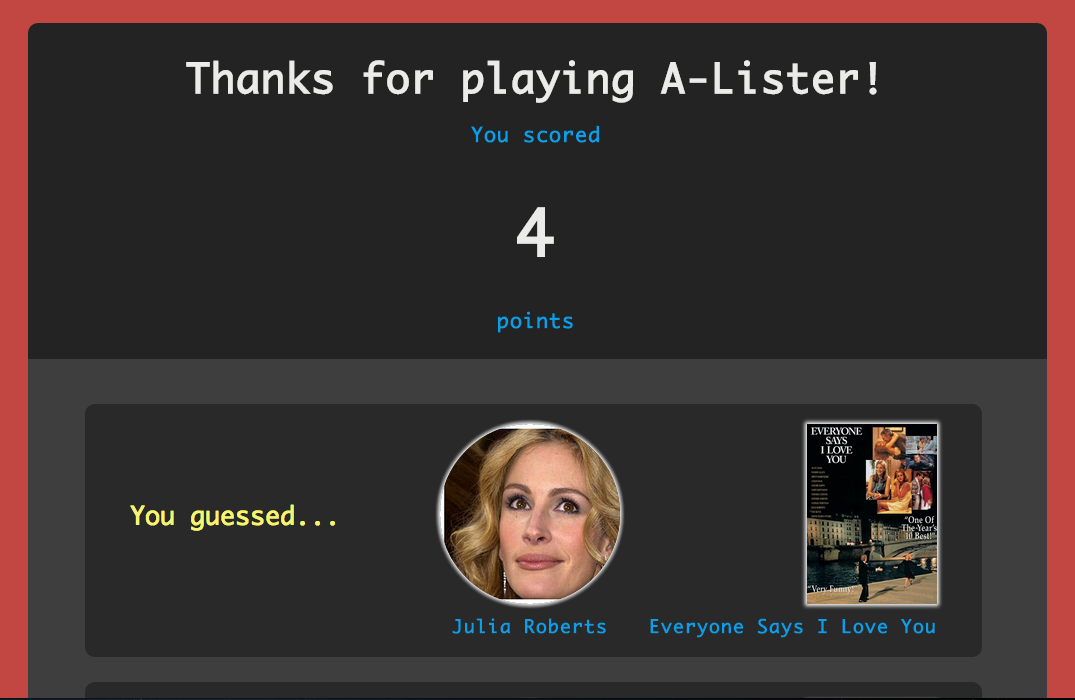
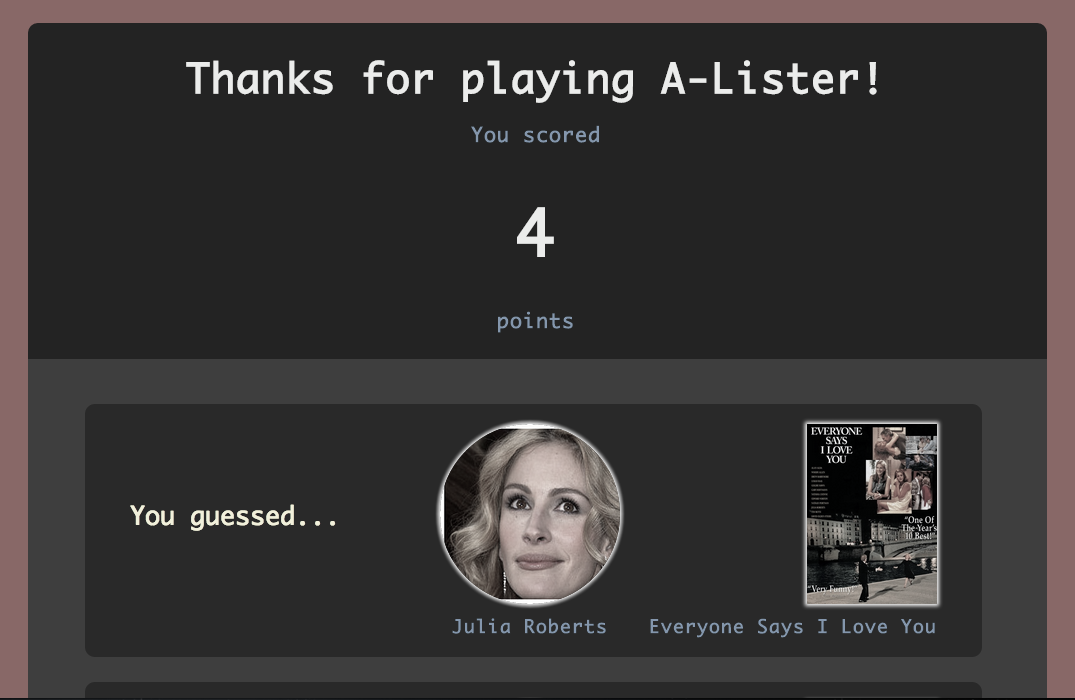
switched up color scheme, more black and pink

diff --git a/index.html b/index.html
@@ -57,22 +57,25 @@
       <div class="built">
         <ul>
           <li>
-            <h3>billboard_chart</h3>
-            <a href="#" data-target="#myToggle" class="hcaption" cap-effect="fade"><img src="images/billboard_chart.png"></a>
+            <a href="http://www.gonoted.com" target="_blank"><h3>Noted</h3></a>
+            <a href="#" data-target="#myToggle" class="hcaption" cap-effect="fade"><img src="images/noted.png"></a>
             <div id="myToggle" class="hide">
+              <p>This is a web application built using Ruby on Rails for my final project at Flatiron.</p>
+            </div>
+          </li>
+          <li>
+            <a href="http://rubygems.org/gems/billboard_chart" target="_blank"><h3>billboard_chart</h3></a>
+            <a href="#" data-target="#myToggle2" class="hcaption" cap-effect="fade"><img src="images/billboard_chart.png"></a>
+            <div id="myToggle2" class="hide">
               <p>This is a ruby gem that I built during week 6 at the Flatiron School.</p>
             </div>
           </li>
           <li>
             <h3>A-Lister</h3>
-            <a href="#" data-target="#myToggle2" class="hcaption" cap-effect="fade"><img src="images/alister.png"></a>
-            <div id="myToggle2" class="hide">
+            <a href="#" data-target="#myToggle3" class="hcaption" cap-effect="fade"><img src="images/alister.png"></a>
+            <div id="myToggle3" class="hide">
               <p>This is a command-line interface game I built during week 4 of the Flatiron School.</p>
             </div>
-          </li>
-          <li>
-            <h3>Noted</h3>
-            <img src="images/noted.png">
           </li>
         </ul>
       </div>

diff --git a/stylesheets/style.css b/stylesheets/style.css
@@ -1,6 +1,5 @@
 body {
   margin: 0;
-/*  background: url('../images/light-texture.png');*/
 }
 
 a {
@@ -8,8 +7,9 @@ a {
 }
 
 nav {
-  background-color: #3b3032;
-  opacity: 0.95;
+/*  background-color: #3b3032;*/
+  background-color: black;
+/*  opacity: 0.8;*/
   color: white;
   font-family: 'Comfortaa';
   width: 100%;
@@ -69,9 +69,7 @@ section {
       }
 
 section:nth-child(odd) {
-/*  background: url('../images/grey-texture.png');*/
-  background-color: #49484a;
-  height: 1000px;
+  background-color: black;
 }
   section:nth-child(odd) h1 {
     color: #fff; 
@@ -88,16 +86,12 @@ section:nth-child(odd) {
 h1 {
   font-family: 'Comfortaa';
   font-size: 3.4em;
-/*  color: #3b3032;*/
   color: #5d5157;
- /*   text-shadow: 1px 1px 1px #ccc;*/
 }
 
 h2 {
   font-family: 'Comfortaa';
   font-size: 2em;
-/*  color: #3b3032;*/
-  color: #5d5157;
 }
 
 .built { 
@@ -120,7 +114,6 @@ h2 {
 .built img {
   height: 360px;
   width: 550px;
-  box-shadow: 2px 2px 5px 2px #444;
 }
 
 .built h3 {
@@ -129,10 +122,17 @@ h2 {
   text-align: center;
 }
 
+.built a {
+  text-decoration: none;
+}
+
+.built .hide p {
+  padding: 30px;
+}
+
 p {
   font-family: 'Comfortaa';
   font-size: 1.2em;
-/*  color: #3b3032;*/
   color: #5d5157;
   line-height: 170%;
 }
@@ -175,5 +175,7 @@ p a {
   margin-left: -15px;
   height: 100px;
   width: 100px;
+  border-radius: 50%;
 }
+
 

diff --git a/javascripts/main.js b/javascripts/main.js
@@ -1,13 +1,13 @@
-$(document).ready(function() {
+$(document).ready(function(){
   initScroll()
   initSnap()
   $("p.email-show").hide()
   emailHover()
   $('.hcaption').hcaptions({
-    height: 370,
+    height: 365,
     width: 550,
-    overlay_bg: 'black',
-    overlay_opacity: 0.8
+    overlay_bg: '#ec0984',
+    overlay_opacity: 0.85
   });
 })
 
@@ -28,8 +28,10 @@ function initSnap(){
 }
 
 function emailHover(){
- $("a.email").hover(function(){
-  $("p.email-show").show(600);
+  $("a.email").hover(function(){
+    $("p.email-show").show(600);
  });
-
 }
+
+
+
